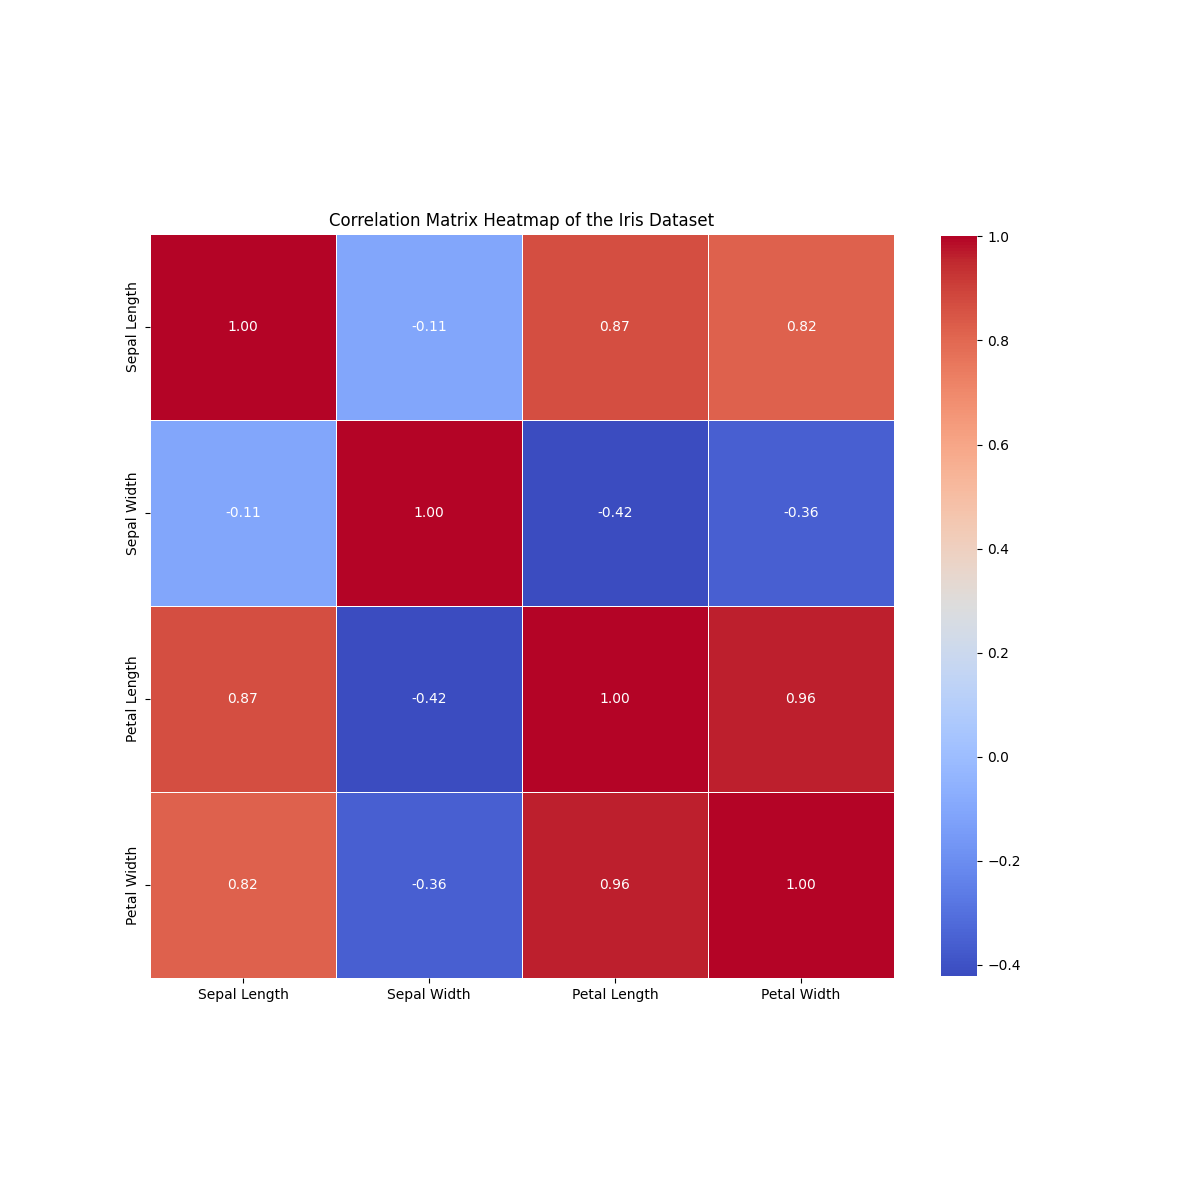
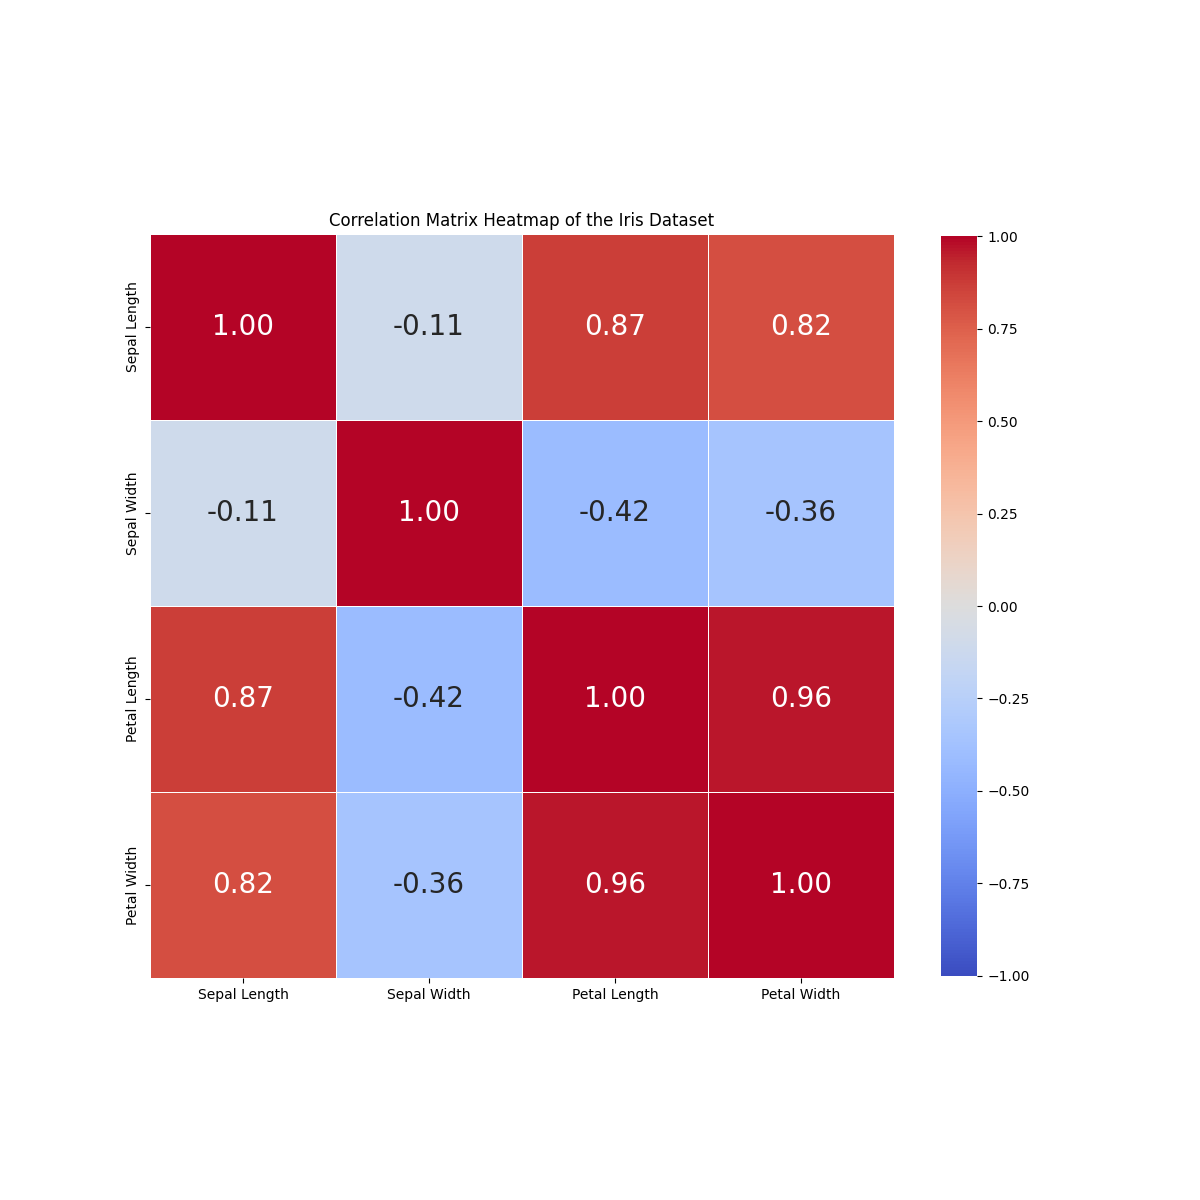
increased the size of the heatmap numbers of the correlation coefficients in each box to make it more readable

diff --git a/analysis_code.py b/analysis_code.py
@@ -385,6 +385,7 @@ def corrleation_matrix_heatmap(data, variables_titles, output_dir):
                 vmin=-1,
                 vmax=1,
                 center=0,
+                annot_kws={"size": 20}
                 )
 
     # add title to the figure
